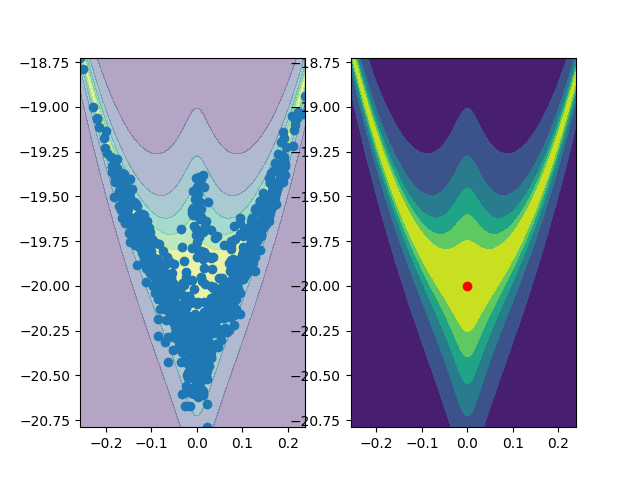
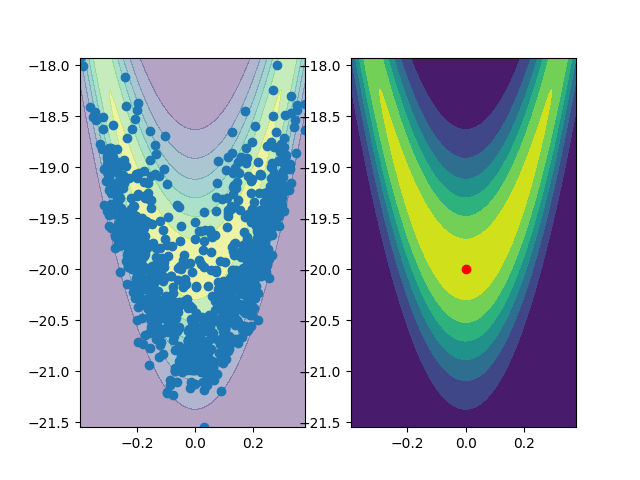
update

diff --git a/examples/sampling.py b/examples/sampling.py
@@ -38,7 +38,7 @@ def to_hausdorff(logp_fn: callable):
         _, logdet = jnp.linalg.slogdet(metric_fn(theta))
         return logp_fn(theta) - 0.5 * logdet
 
-    return logp_hausdorff, metric_fn
+    return logp_hausdorff
 
 
 def plot_samples(samples: jax.Array, x_map: jax.Array, logp_fn: callable, filename: str = None):
@@ -84,13 +84,11 @@ def main(
 ):
     logp_fn, dim = dist.get()
 
-    if use_hausdorff:
-        # Use Hausdorff's base measure
-        logp_fn, metric_fn = to_hausdorff(logp_fn)
+    logp_fn_map = to_hausdorff(logp_fn) if use_hausdorff else logp_fn
 
     # Find MAP by maximizing the log-likelihood
     x_map = jax.jit(jspo.minimize, static_argnames=("fun", "method"))(
-        fun=lambda x: -logp_fn(x),
+        fun=lambda x: -logp_fn_map(x),
         x0=jnp.zeros((dim,)),
         method="BFGS",
     ).x
